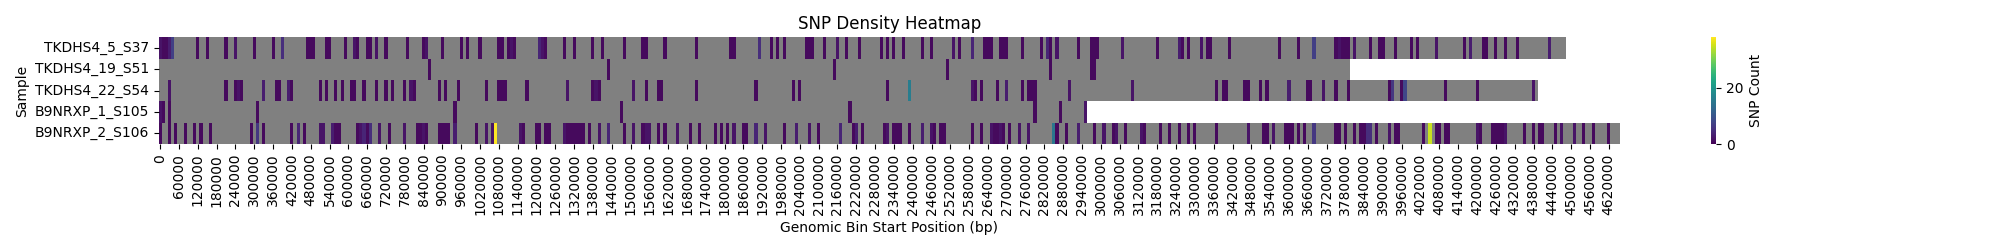
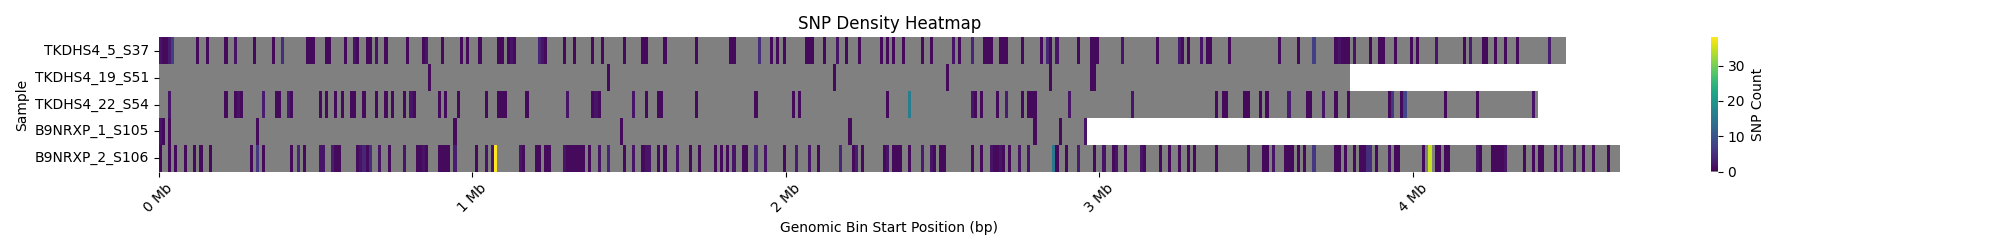
Ticks for megabases only

diff --git a/plot_snp_density.py b/plot_snp_density.py
@@ -114,6 +114,10 @@ sns.heatmap(
     mask=heatmap_df.isna(),  # Mask NaN values to make them white
     )
 
+# Only plot X-ticks for the megabase positions
+xticks = np.arange(0, len(heatmap_df.columns), 100)
+plt.xticks(xticks, [f"{int(x * BIN_SIZE / 1e6)} Mb" for x in xticks], rotation=45)
+
 plt.xlabel("Genomic Bin Start Position (bp)")
 plt.ylabel("Sample")
 plt.title("SNP Density Heatmap")
